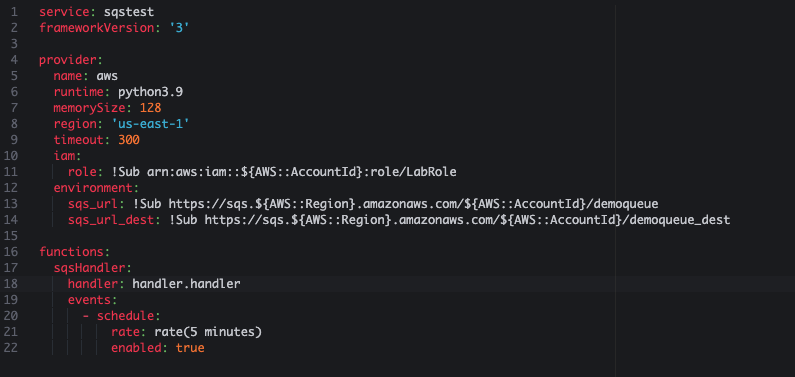
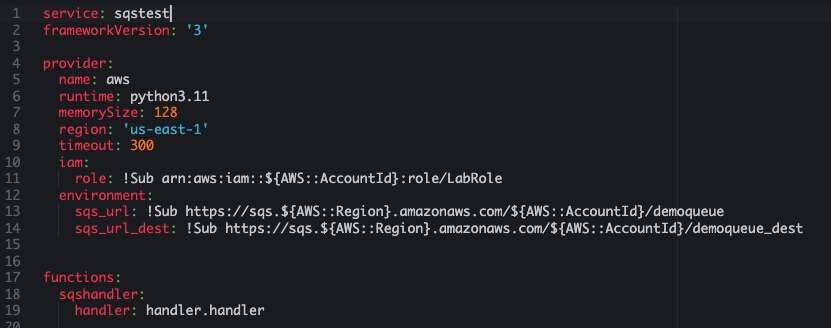
removing events from sqs standard

Changed region(s): [[0.0, 0.0, 0.966, 1.0]]

diff --git a/04-SQS/01-Standard-Queue/README.md b/04-SQS/01-Standard-Queue/README.md
@@ -45,7 +45,5 @@
 9. Para execução do lambda rode o comando `sls invoke -l -f sqsHandler` no terminal
 10. Enquando espera o comando terminar pode observar no painel do SQS as mensagens se movendo a cada atualização manual pelo canto direito superior. Lembre que cada execução move 1000 por definição no código. [Link para painel SQS](https://console.aws.amazon.com/sqs/v2/home?region=us-east-1#/queues)
     ![alt](img/lambda-02-1.png)
-11. Vá até o painel de [regras do eventbridge](https://us-east-1.console.aws.amazon.com/events/home?region=us-east-1#/rules) que verá a regra de execução baseada em tempo criada com o serverless framework. A regra tem nome iniciado em `sqstest`
-
-12. Se esperar alguns execuções vai ver que a fila principal vai zerar.
-13. Execute o comando `sls remove` no terminal para remover o que foi criado.
+11. Se esperar alguns execuções vai ver que a fila principal vai zerar.
+12. Execute o comando `sls remove` no terminal para remover o que foi criado.
